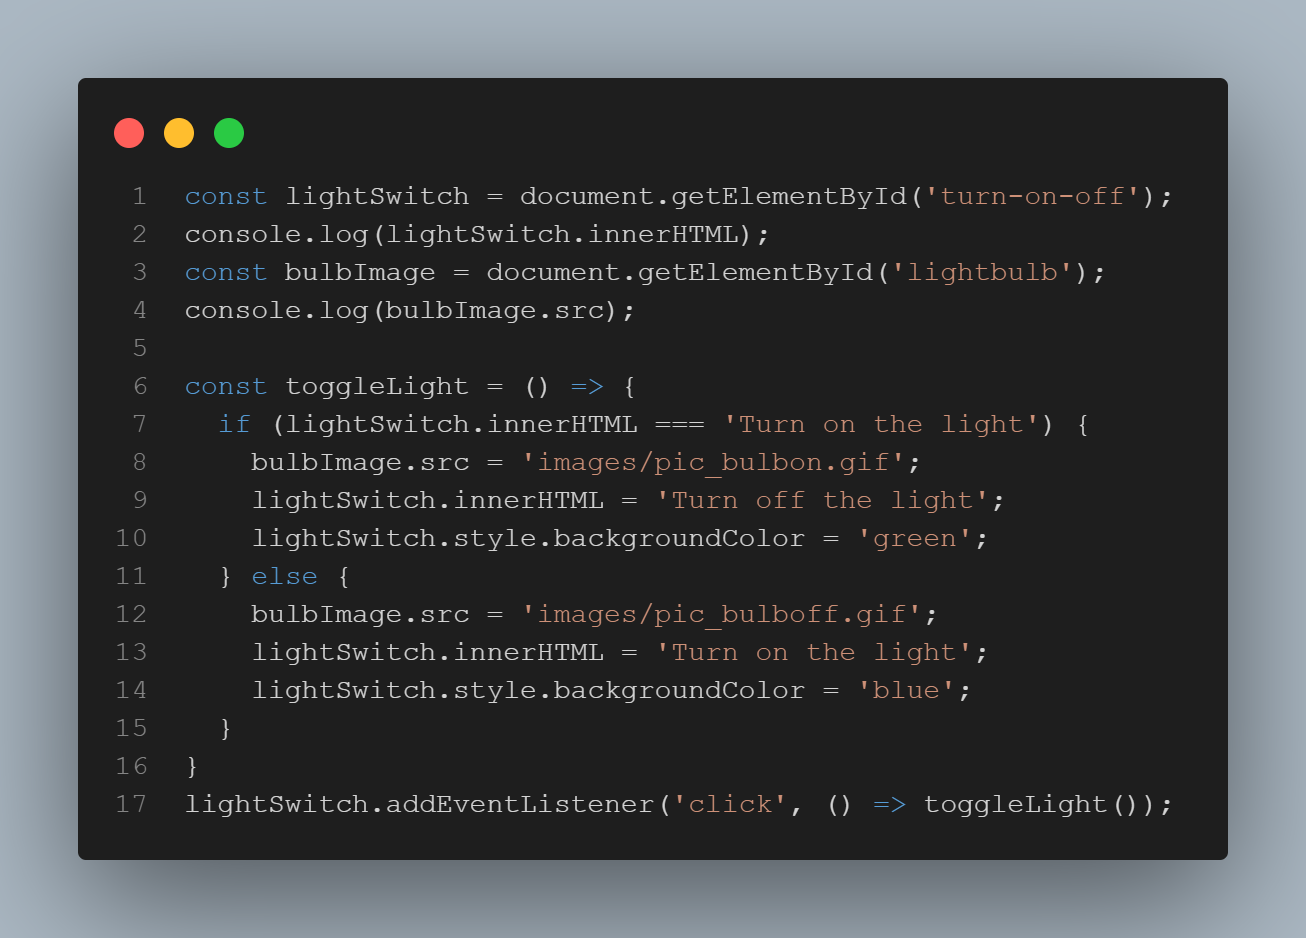
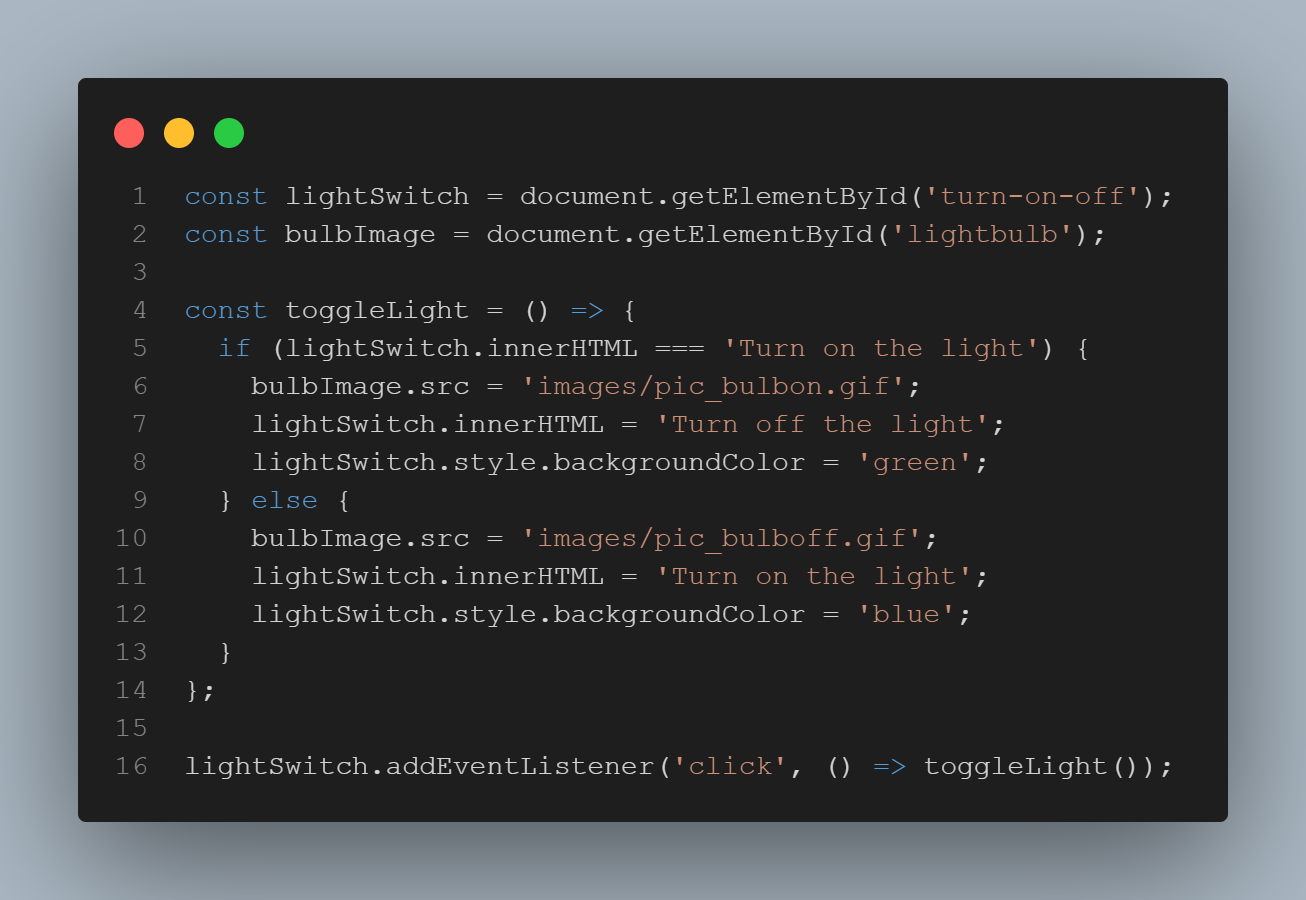
minor tweaking in module section

diff --git a/lightOn.js b/lightOn.js
@@ -1,7 +1,5 @@
 const lightSwitch = document.getElementById('turn-on-off');
-console.log(lightSwitch.innerHTML);
 const bulbImage = document.getElementById('lightbulb');
-console.log(bulbImage.src);
 
 const toggleLight = () => {
   if (lightSwitch.innerHTML === 'Turn on the light') {
@@ -13,5 +11,6 @@ const toggleLight = () => {
     lightSwitch.innerHTML = 'Turn on the light';
     lightSwitch.style.backgroundColor = 'blue';
   }
-}
+};
+
 lightSwitch.addEventListener('click', () => toggleLight());
